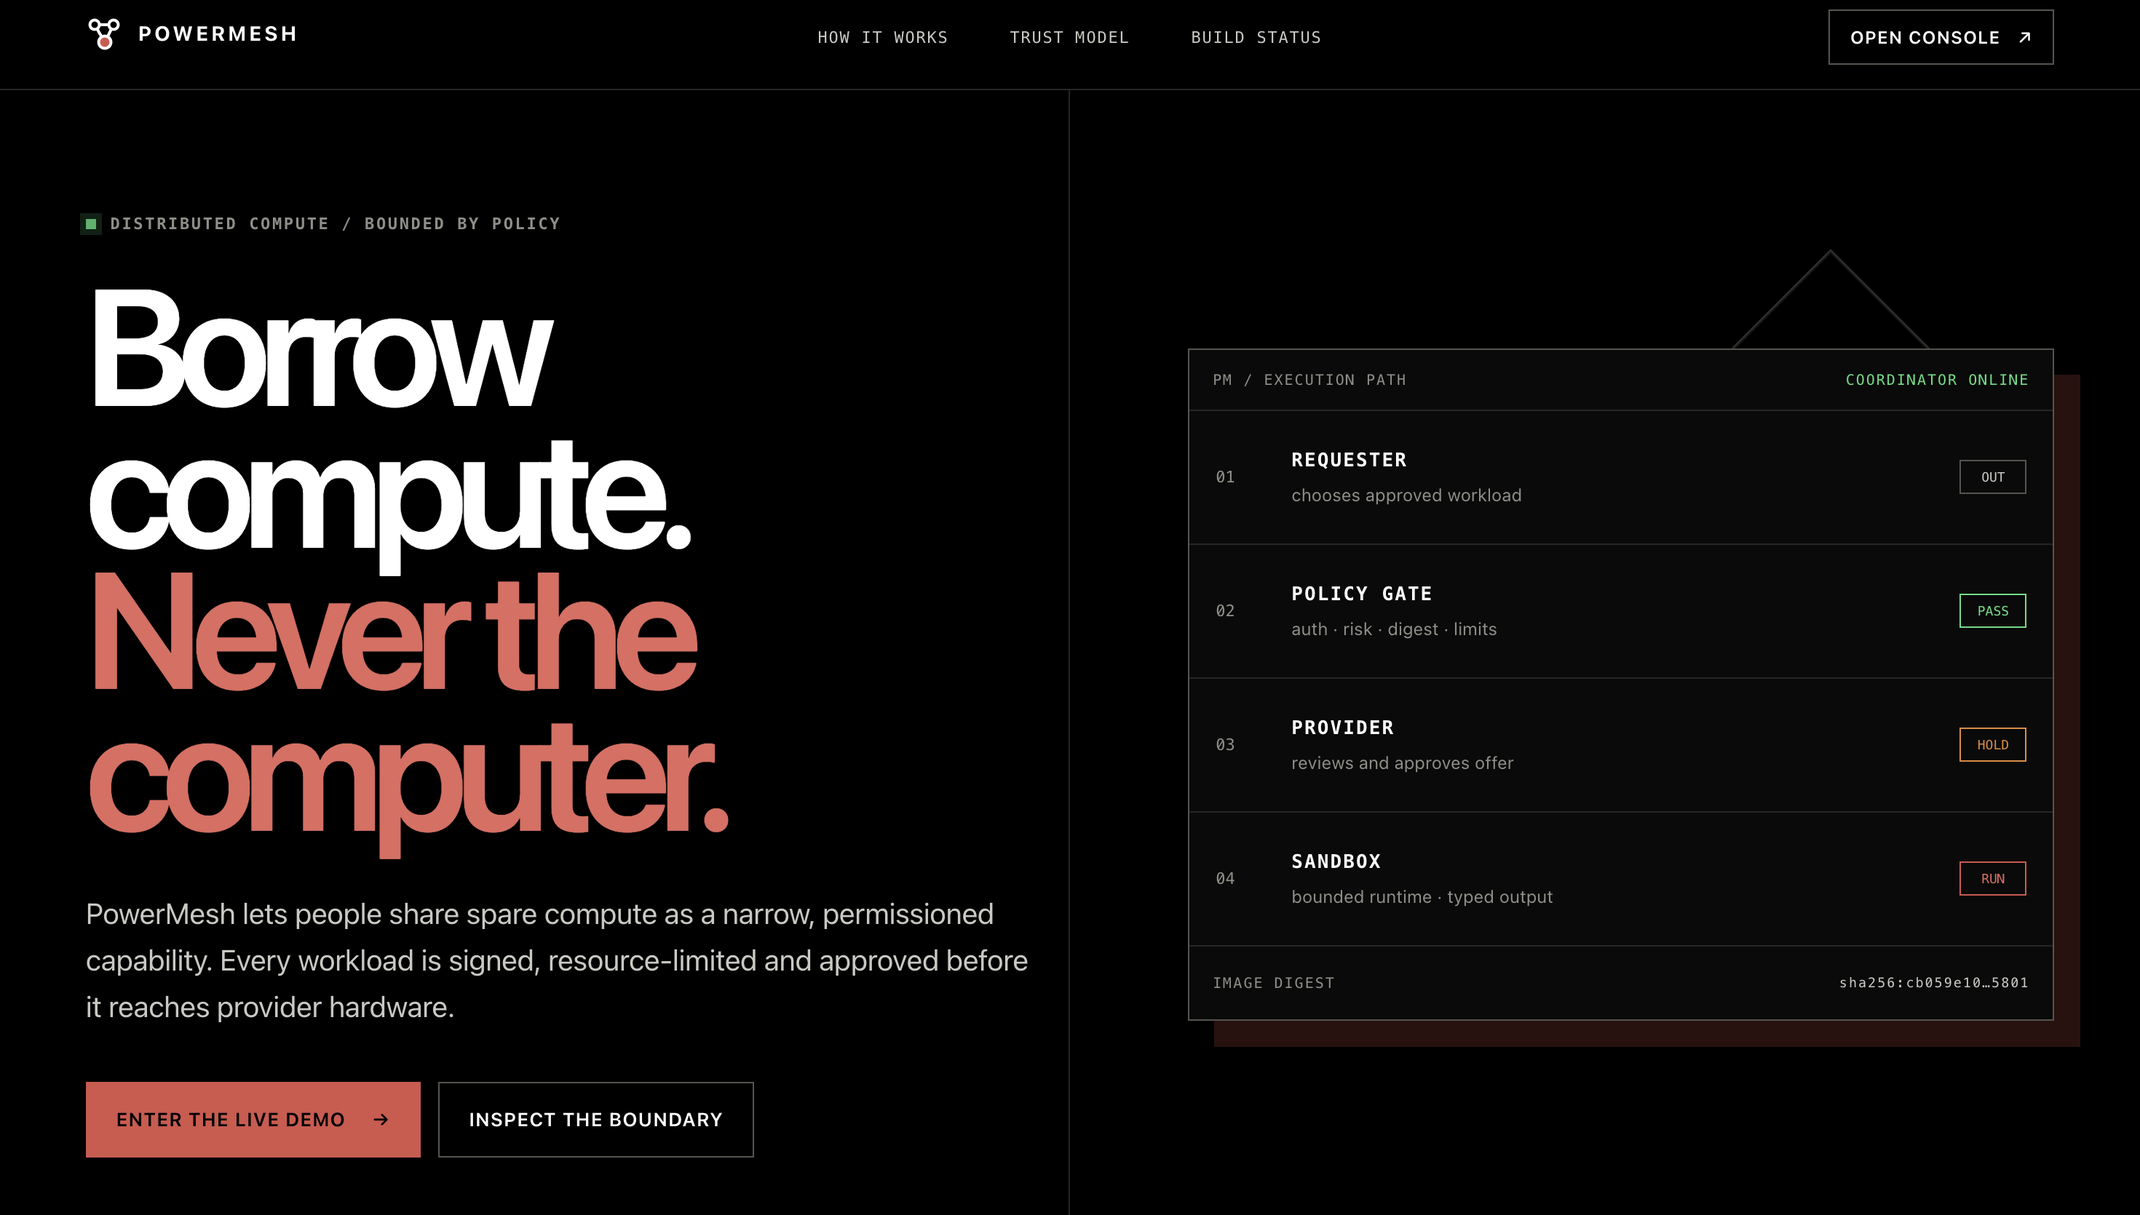
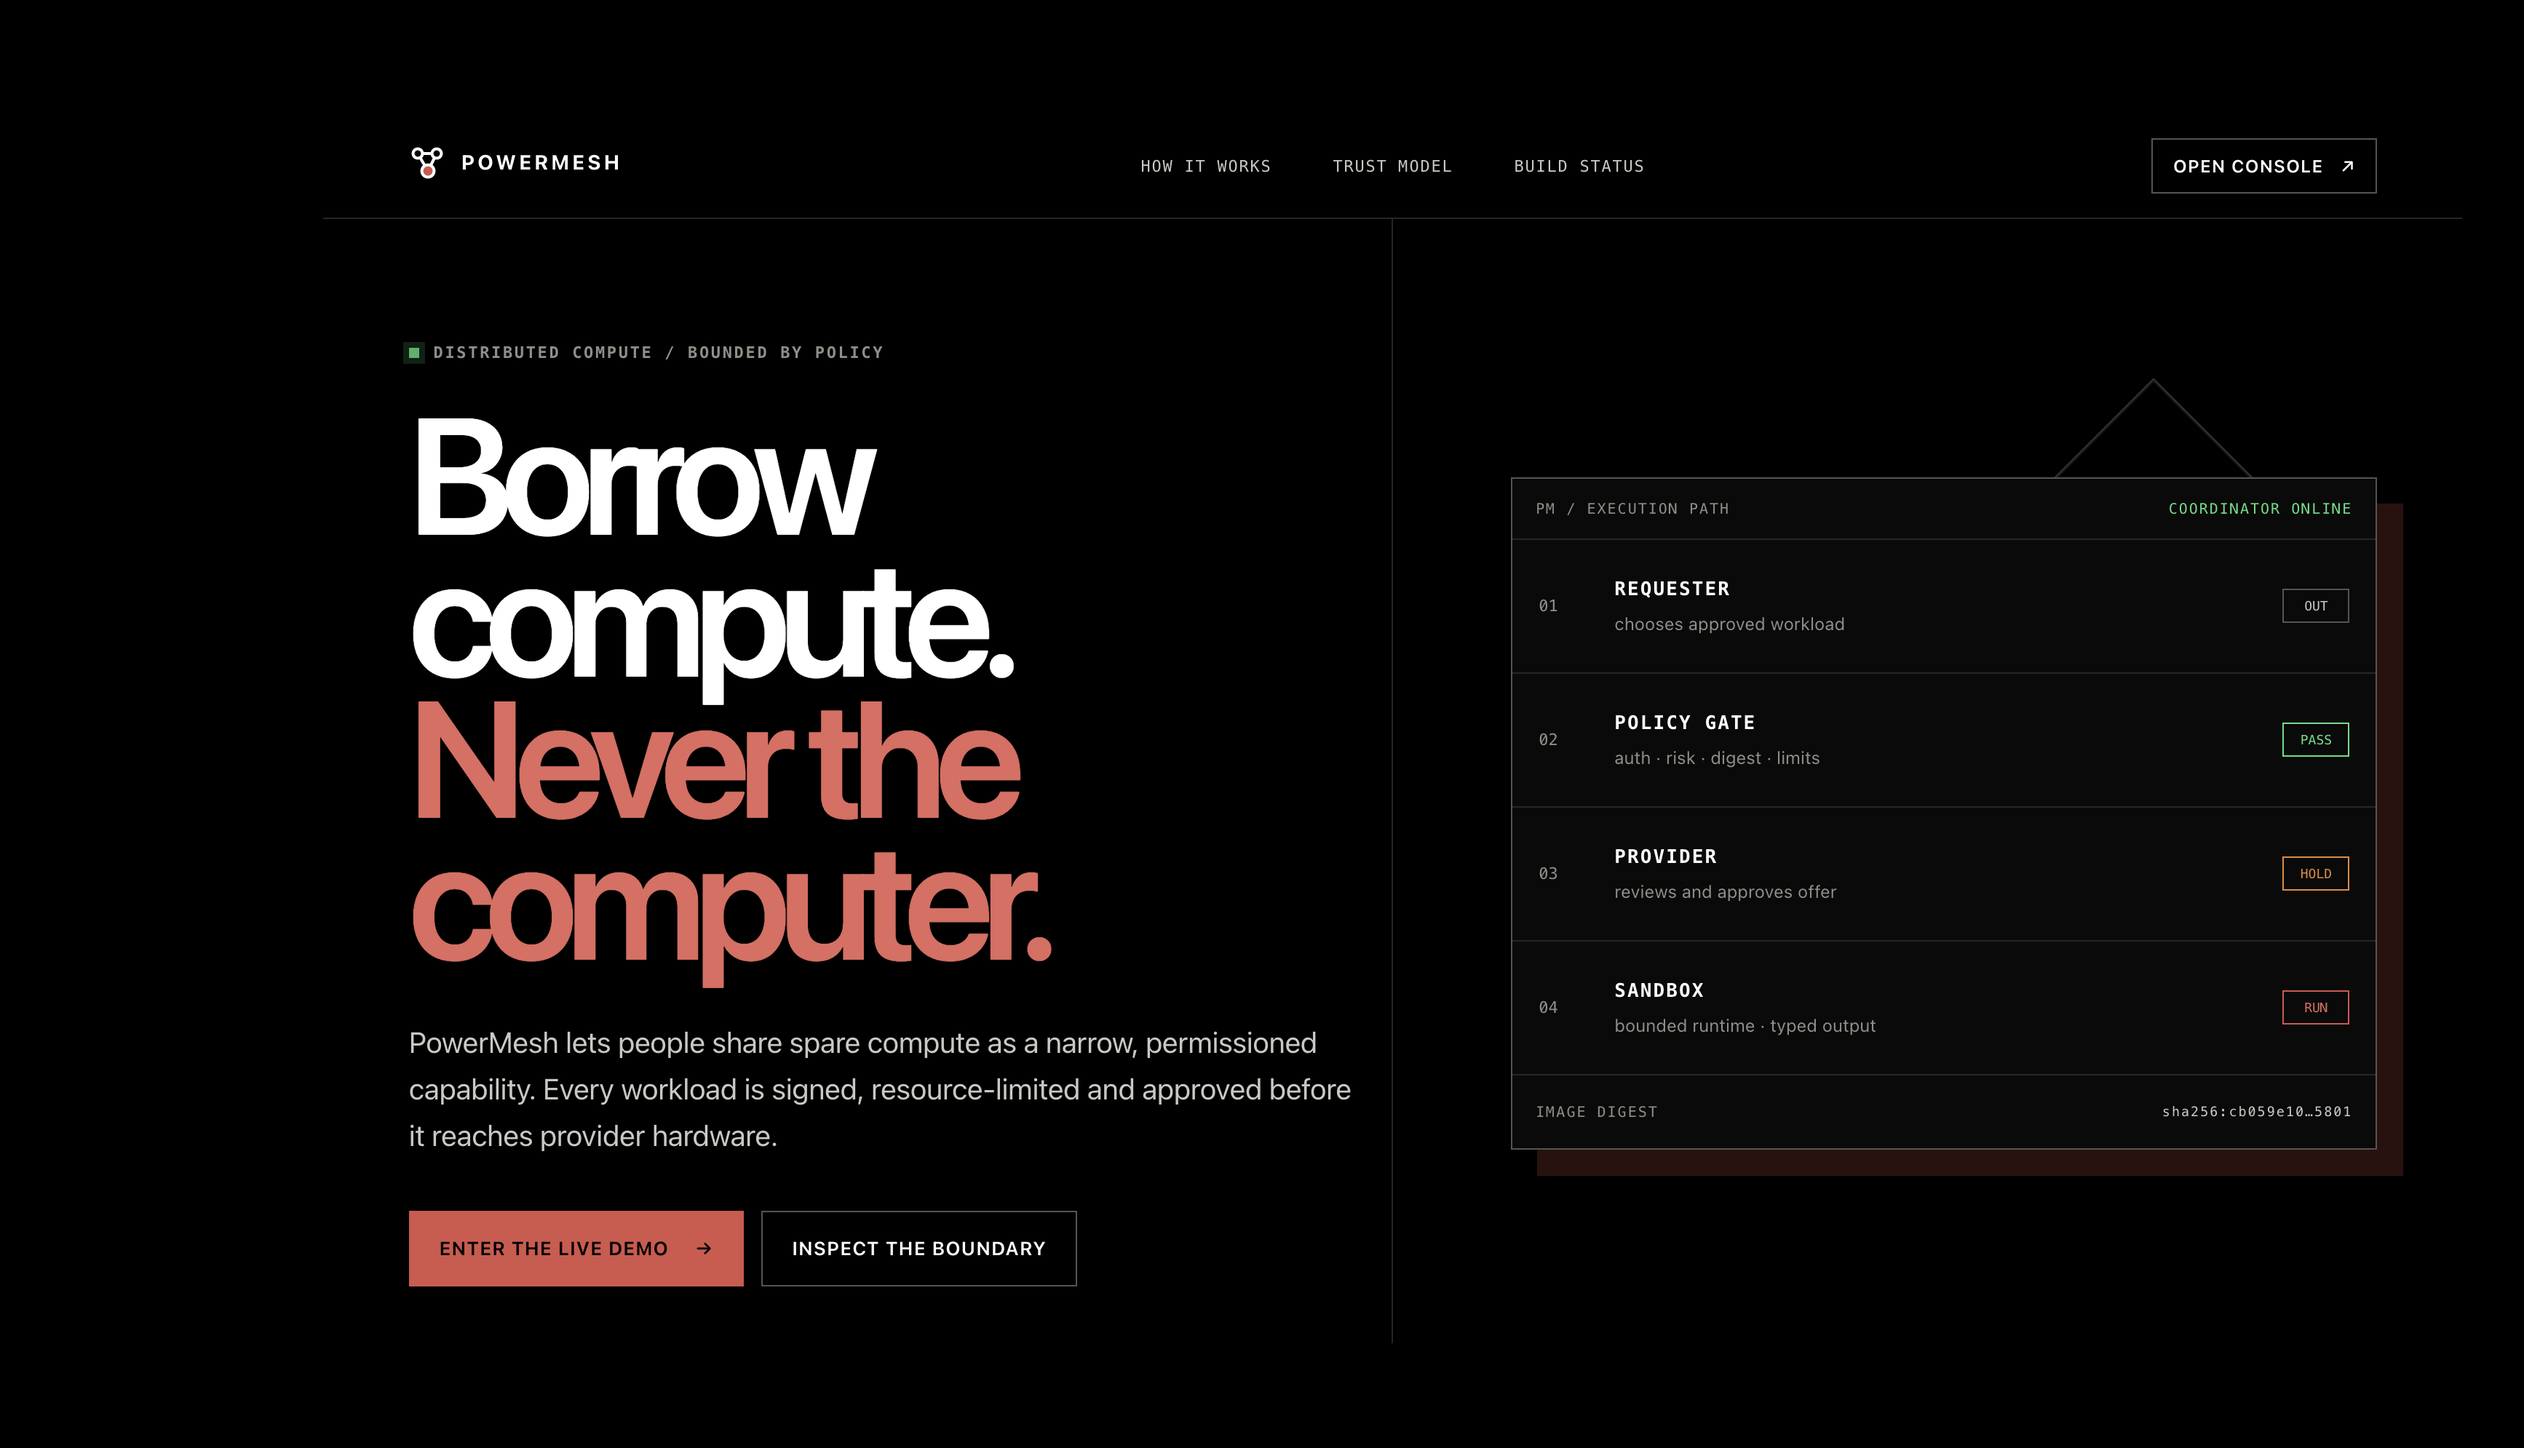
added taxGeine and imagecrop fix

diff --git a/GDG-ABESEC/src/pages/AchivementPage.jsx b/GDG-ABESEC/src/pages/AchivementPage.jsx
@@ -106,6 +106,19 @@ const mockProjects = [
   },
   {
     id: 7,
+    title: "TaxGenie",
+    description:
+      "TaxGenie is an AI-powered platform simplifying tax management, GST compliance, and financial filing for individuals and small businesses in India.",
+    thumbnail_url: "/projects-imgs/uday-projects.png",
+    owner_image: "/projects-imgs/uday.jpeg",
+    owner_name: "Uday Jain",
+    github_url: "https://github.com/udayjain06/CA-Assistant",
+    linkedin_url: "https://www.linkedin.com/in/uday-jain-80a312308/",
+    deployed_url: "https://ca-assistant-lac.vercel.app/dashboard",
+    tech_stack: ["Next.js 15", "React", "TypeScript", "Tailwind CSS", "Python", "FastAPI"]
+  },
+  {
+    id: 8,
     title: "ZARA COLLECTION",
     description:
       "ZARA COLLECTION is a responsive fashion website showcasing affordable ethnic wear, including short kurtis, long kurtis, Farsi suits, and layered gowns. Visitors can browse product designs, sizes, and price ranges, read customer reviews, and contact the store to order through WhatsApp",
